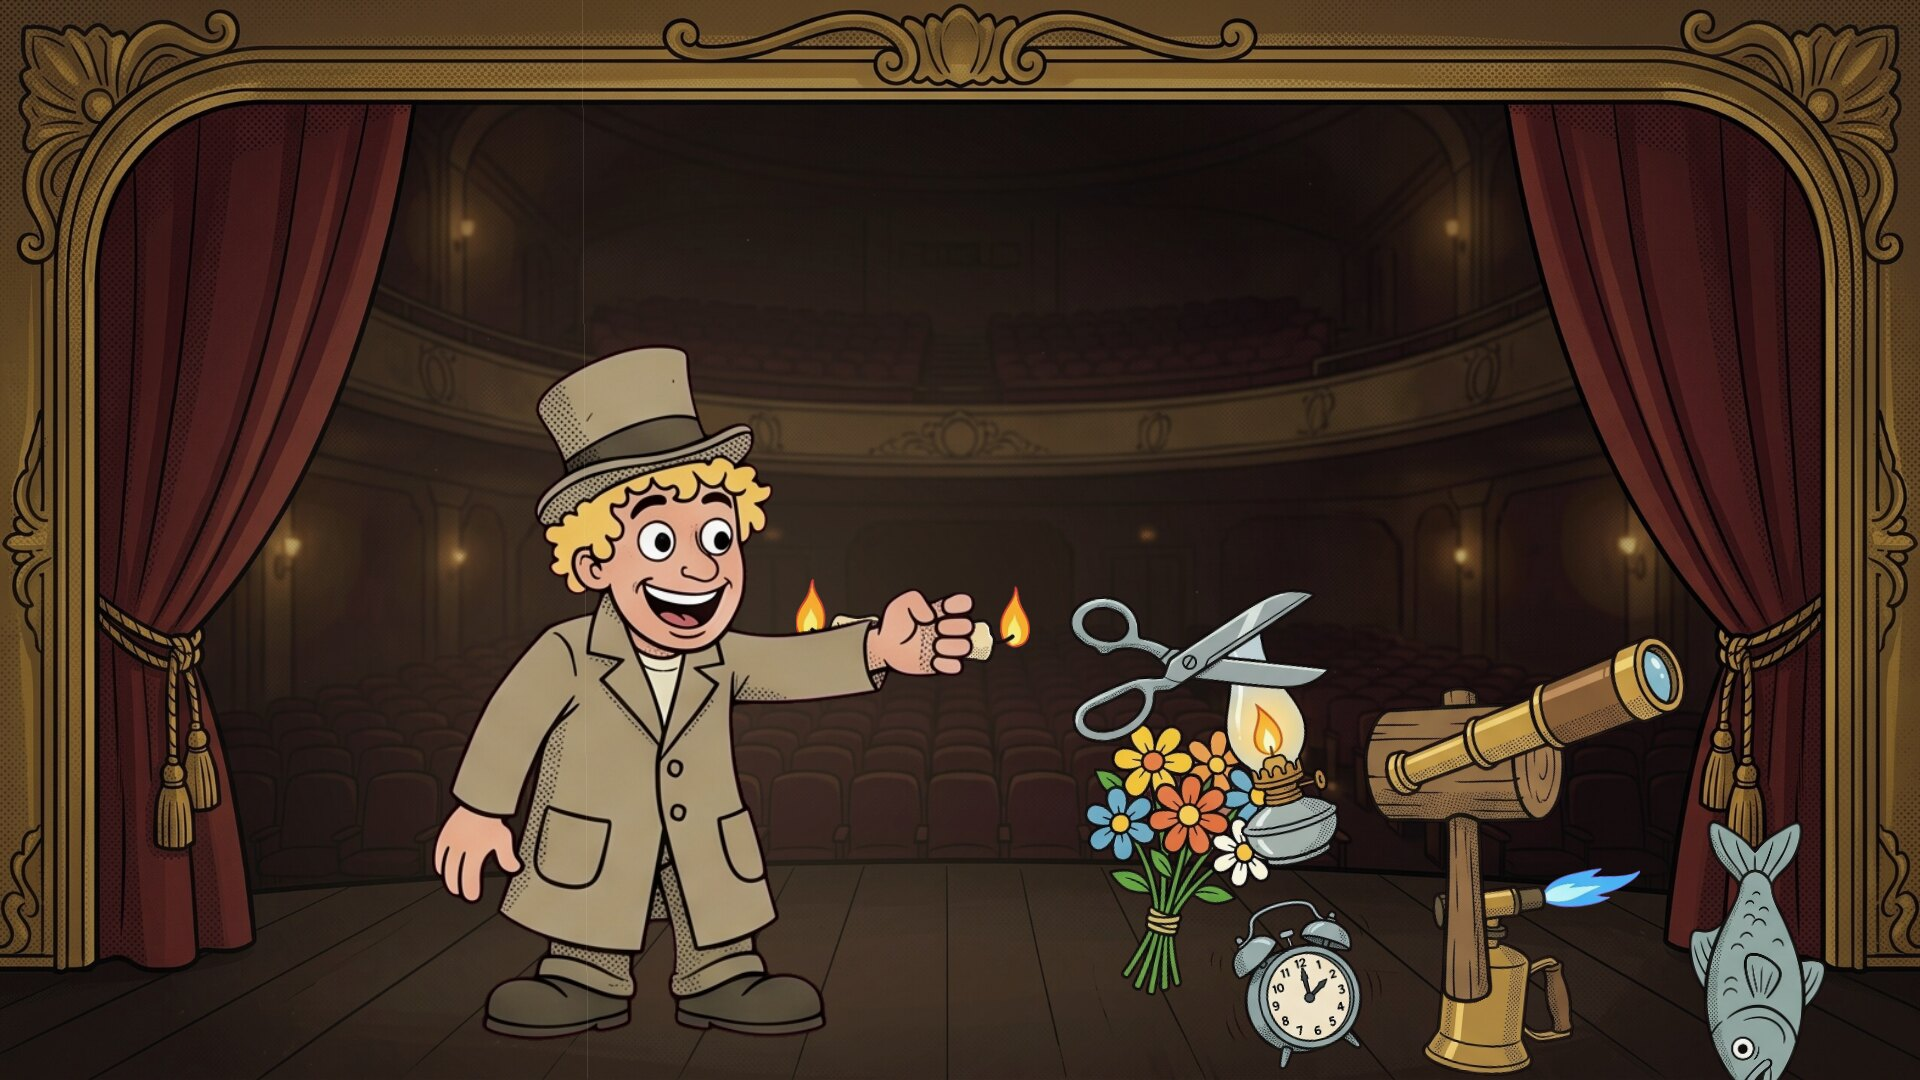
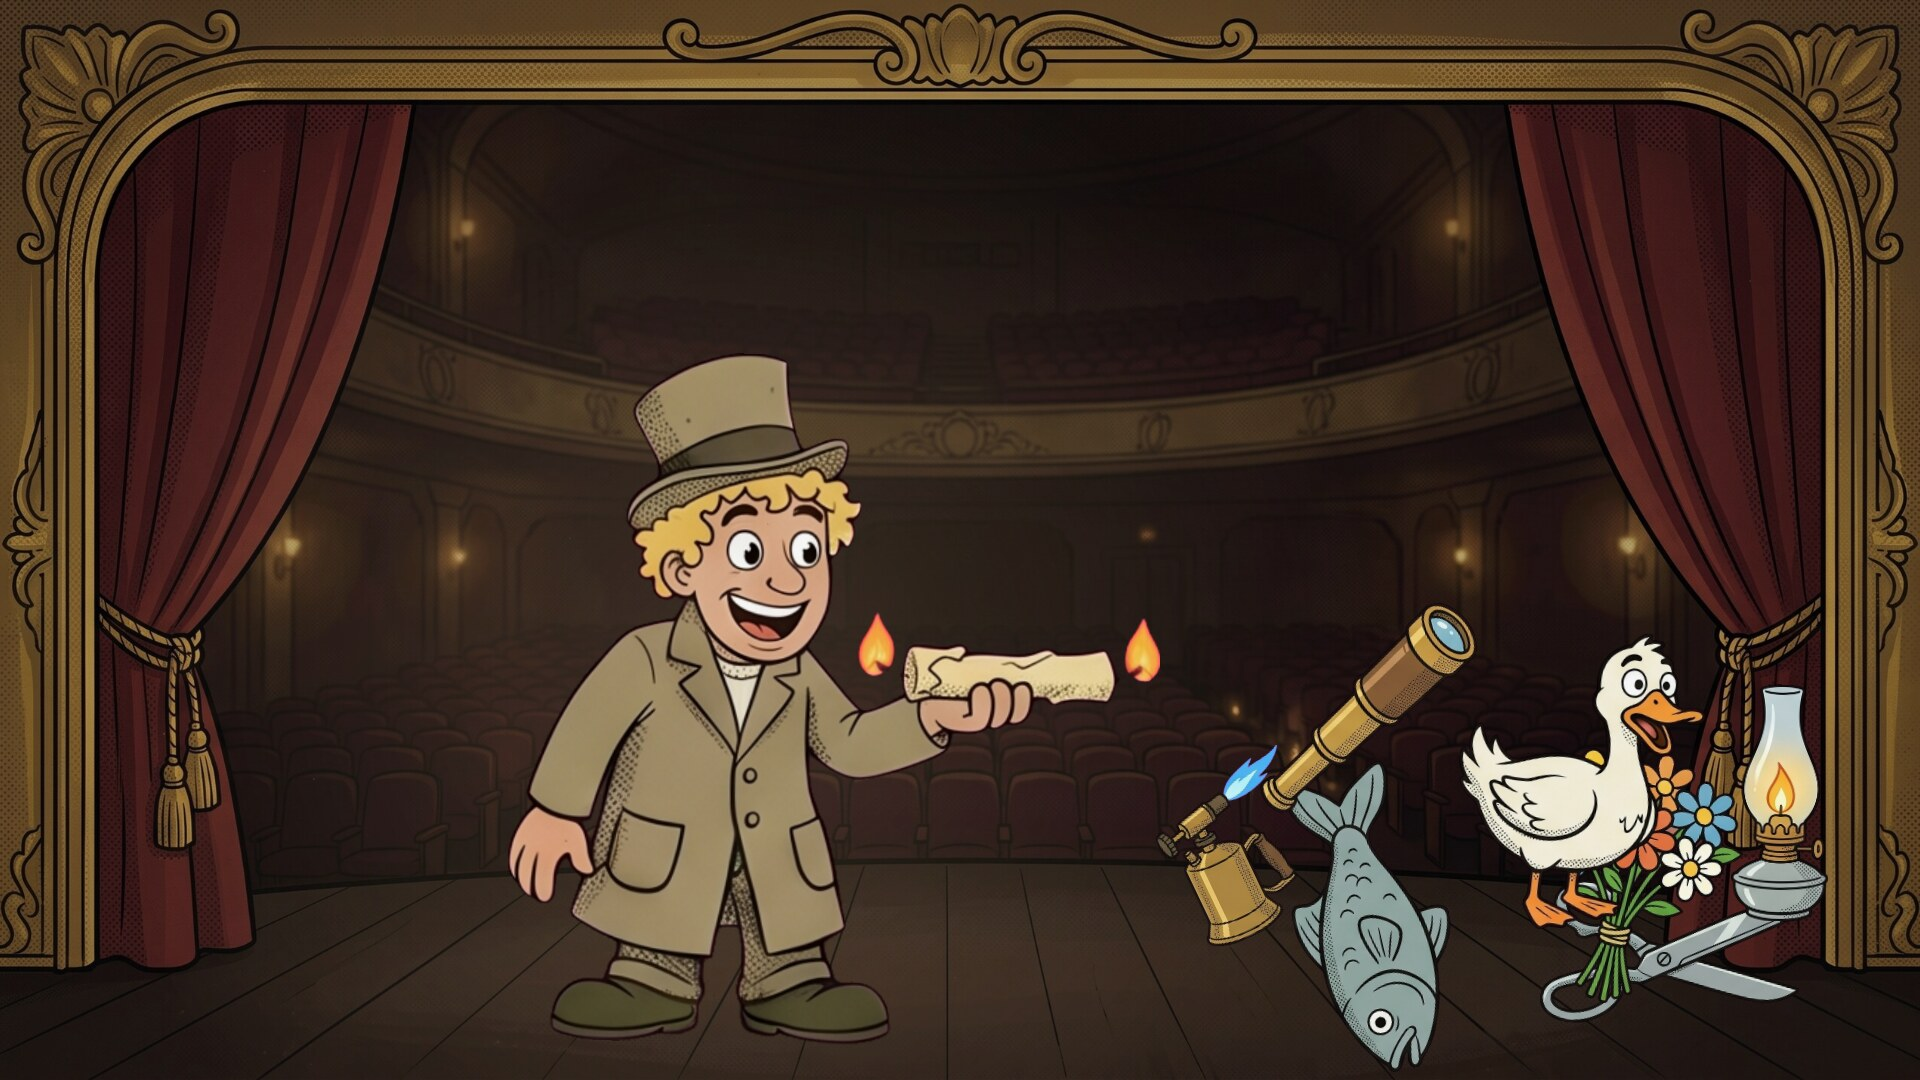
README: he holds things up and they settle on the heap, his faces between things; new screenshots

Changed region(s): [[0.2188, 0.3056, 0.9688, 1.0]]

diff --git a/README.md b/README.md
@@ -8,15 +8,16 @@ out of his long coat. Runs on Linux, Windows and macOS. One of the
 
 ## What it shows
 
-Harpo reaches into his coat and pulls something out, holds it up, shows it to us
-with a grin or his "gookie" face, and tosses it over his shoulder onto a growing
-heap. Then the next. Sixteen things in all, in a different order every time round: a
+Harpo reaches into his coat, pulls something out, holds it up to show us with a
+grin, and tosses it over his shoulder onto a growing heap, where it bounces and
+settles (the heavy things shake the whole heap). Then the next. Sixteen things in all, in a different order every time round: a
 candle burning at both ends, a cup of hot coffee, a fish, a blowtorch, a mallet, a
 live duck, a pair of enormous scissors, a ham sandwich, a telescope, an alarm clock
 that goes off, an ice-cream cone, a toy sailboat, a bunch of flowers, an oil lamp,
 an anchor, and last a ladder far too long for any coat, which he has to heave out
 of it rung by rung. Then he looks into his coat, shrugs, the lights go down, and he
-starts again. Now and then he honks his horn or tips his hat.
+starts again. Between things he honks his horn, tips his hat or pulls his "gookie"
+face.
 
 With cartoon noises: the rustle of the coat, pops and swanee whistles, quacks, the
 alarm bell, the blowtorch, and a thump, a clatter or a crash as each thing lands.
@@ -102,9 +103,9 @@ The sound can be turned off and on from the screen saver settings: on Windows, t
 ## How it was made
 
 The cartoon pictures were drawn with Google's Gemini from the prompts in
-`assets/PROMPTS.md` (the sheets as Gemini made them are in `assets/src`; the stage is
-the [Groucho Clock](https://github.com/mottipython/groucho-clock)'s), then cut up by
-`tools/make_parts.py` and animated in code. The program was written with Anthropic's
+`assets/PROMPTS.md` (the stage is the
+[Groucho Clock](https://github.com/mottipython/groucho-clock)'s), then cut up by
+`tools/make_parts.py` into the pictures in `assets/art` and animated in code. The program was written with Anthropic's
 Claude, working from the author's direction. The noises are made in code, except
 Harpo's horn and the duck, which are recordings: the horn from public-domain media,
 and the duck from [Wikimedia Commons](https://commons.wikimedia.org/wiki/File:Anas_platyrhynchos_-_Mallard_XC112828.mp3)
